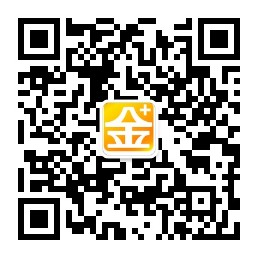
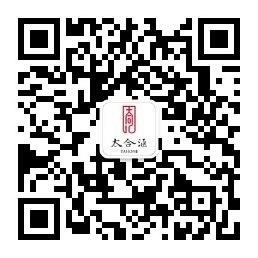
bug

diff --git a/web/src/ccc/newAccount/js/main/index.js b/web/src/ccc/newAccount/js/main/index.js
@@ -21,9 +21,10 @@ var dueInAmount = CC.user.dueInAmount || 0;
 
 // 冻结金额
 var frozenAmount = CC.user.frozenAmount || 0;
-
+// 冻结金额
+var investFrozenAmount = CC.user.investStatistics.investFrozenAmount || 0;
 // 在投资金
-var investAmount = parseFloat(dueInAmount + frozenAmount).toFixed(2);
+var investAmount = parseFloat(dueInAmount + investFrozenAmount).toFixed(2);
 
 // 总资产
 var totalAmount = parseFloat(CC.user.availableAmount + dueInAmount + frozenAmount).toFixed(2);

diff --git a/web/src/ccc/global/views/layouts/default.html b/web/src/ccc/global/views/layouts/default.html
@@ -57,7 +57,8 @@ var _hmt = _hmt || [];
             </div>
             <div class="float-img app">
                 <span>手机太合汇APP</span>
-                <img src="/ccc/index/img/app.png" class="app_img" style="width:120px;">
+                <img src="/ccc/global/img/wx_gzh.jpg" class="app_img" style="width:120px;">
+                <!--<img src="/ccc/index/img/app.png" class="app_img" style="width:120px;">-->
             </div>
 
             {{#if user}}
